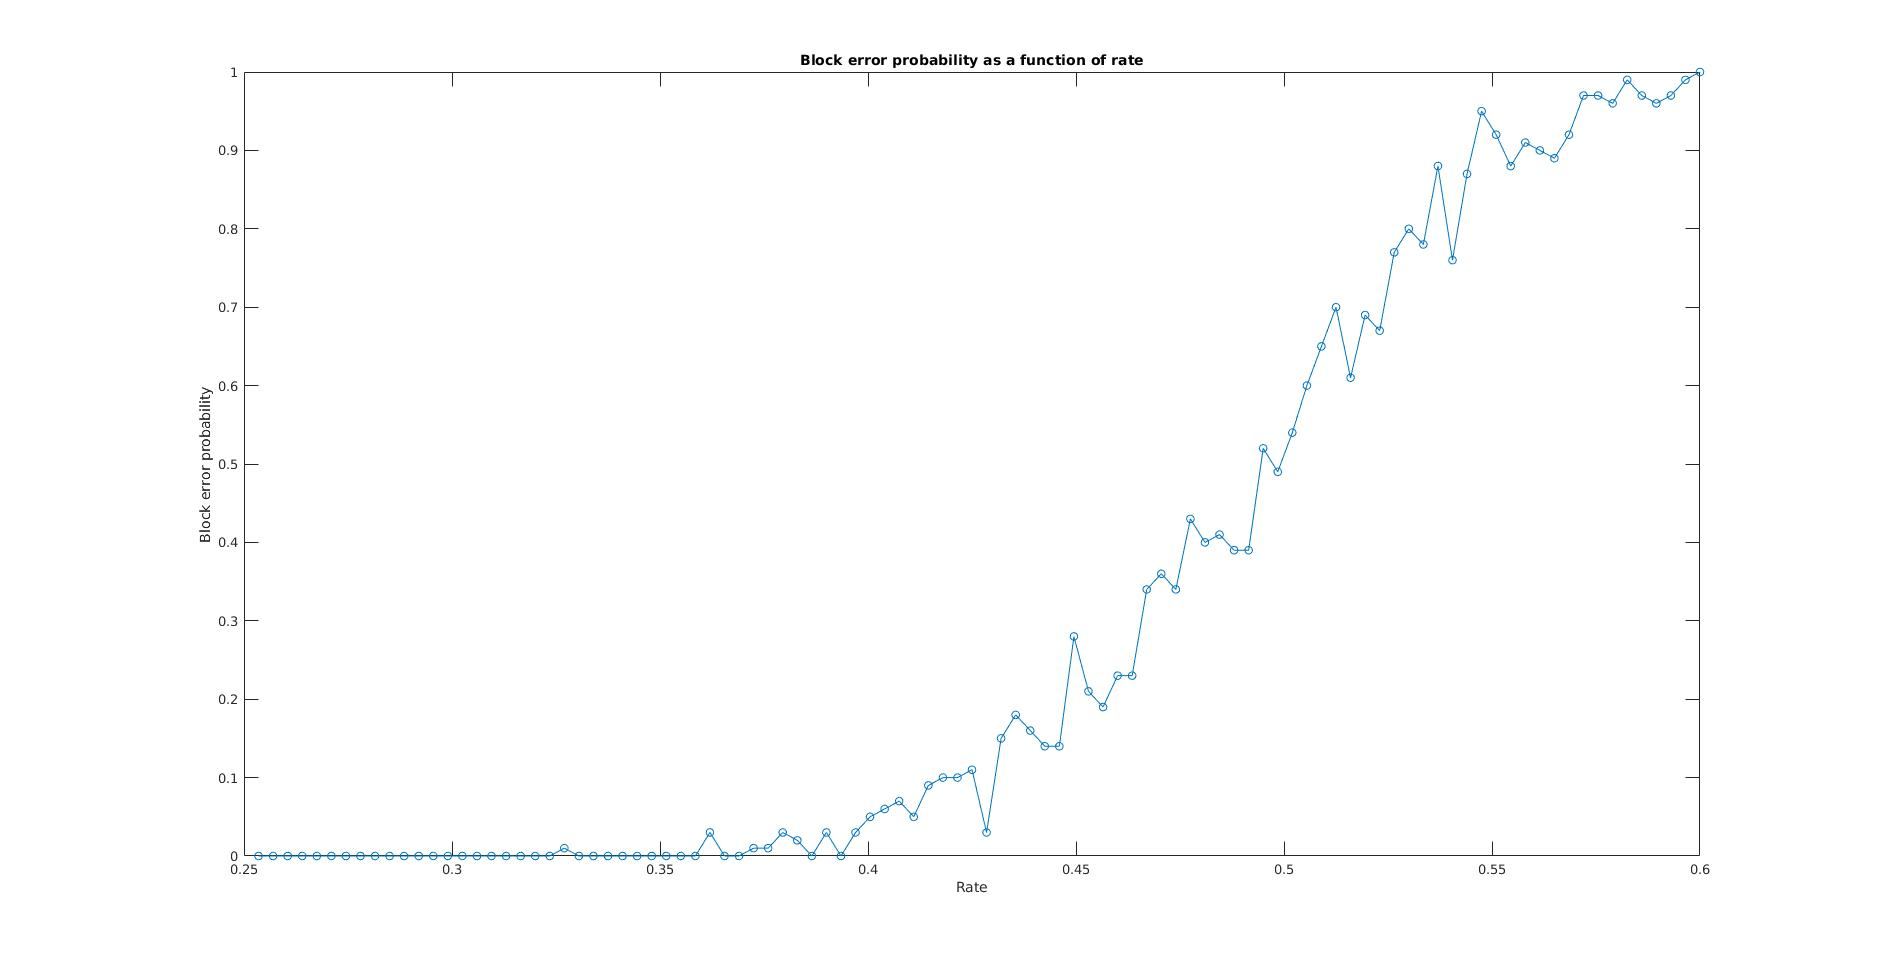
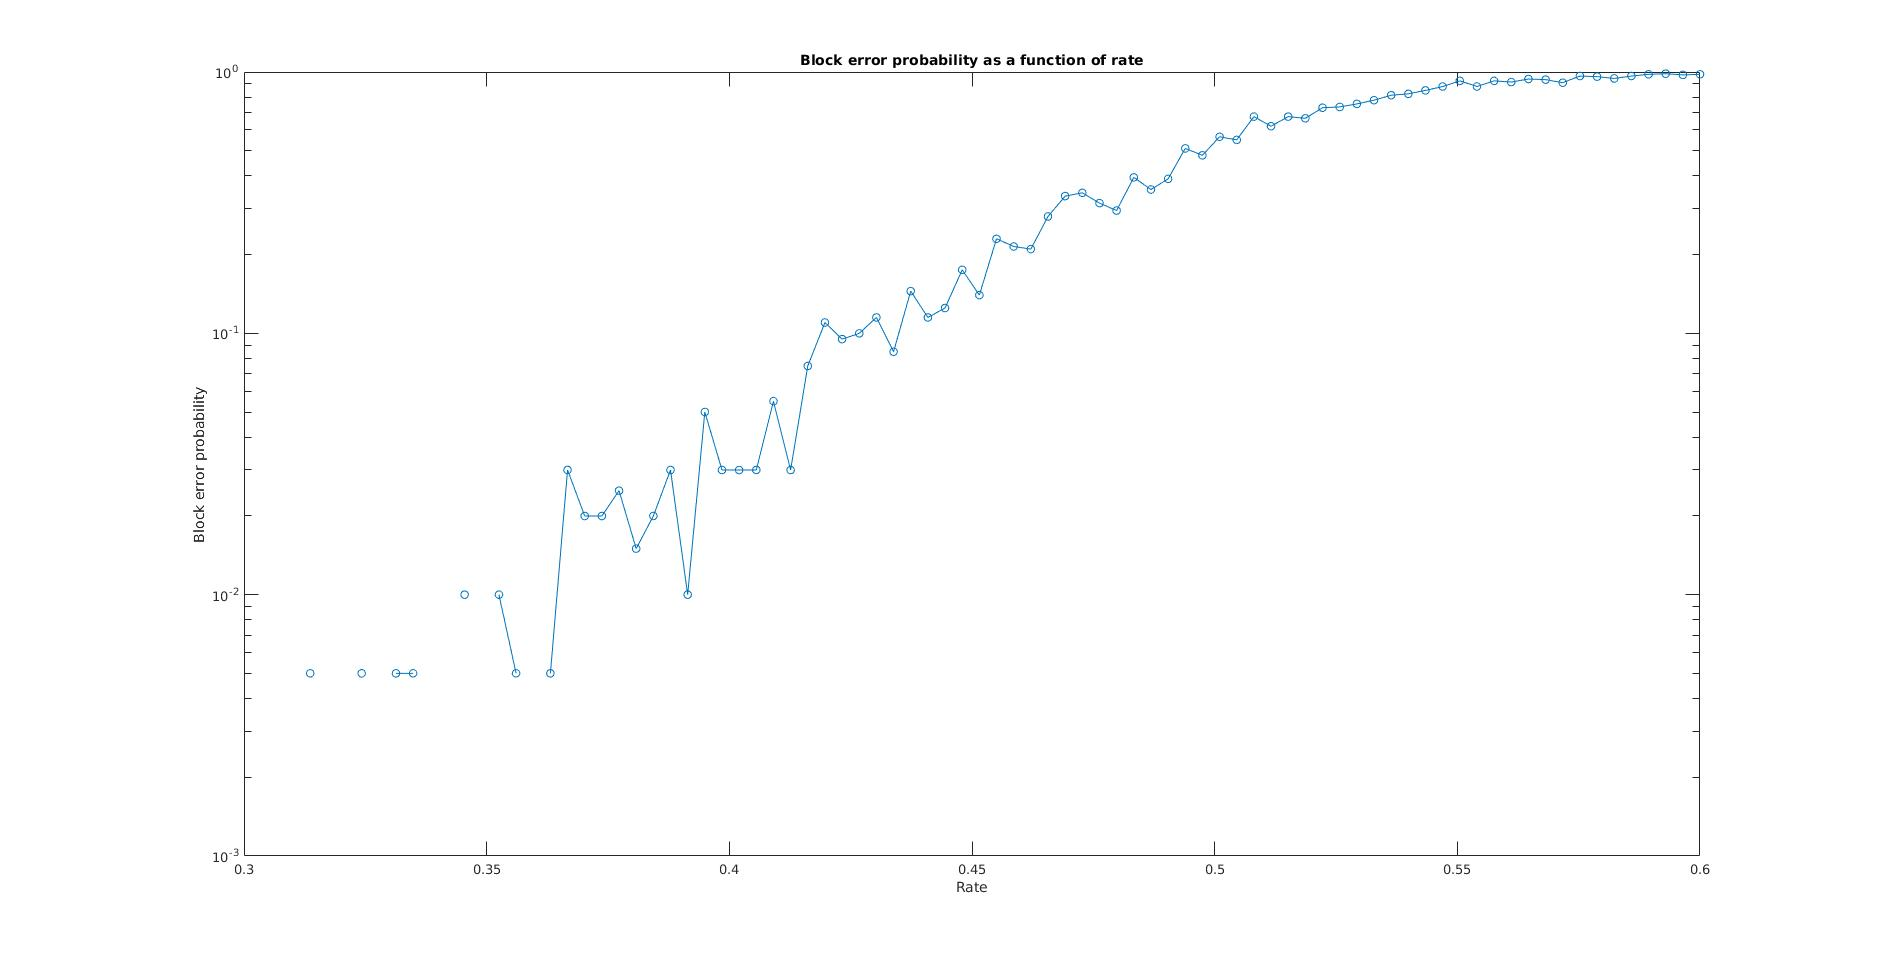
change plotting function

diff --git a/main.m b/main.m
@@ -28,7 +28,7 @@ clc;
 
 figure % opens new figure window
 block_error_probabilites = 1 - success_rates;
-plot(rates, block_error_probabilites, '-o','MarkerIndices', 1:num_rates_simulated)
+semilogy(rates, block_error_probabilites, '-o','MarkerIndices', 1:num_rates_simulated)
 title('Block error probability as a function of rate')
 ylabel('Block error probability')
 xlabel('Rate')
